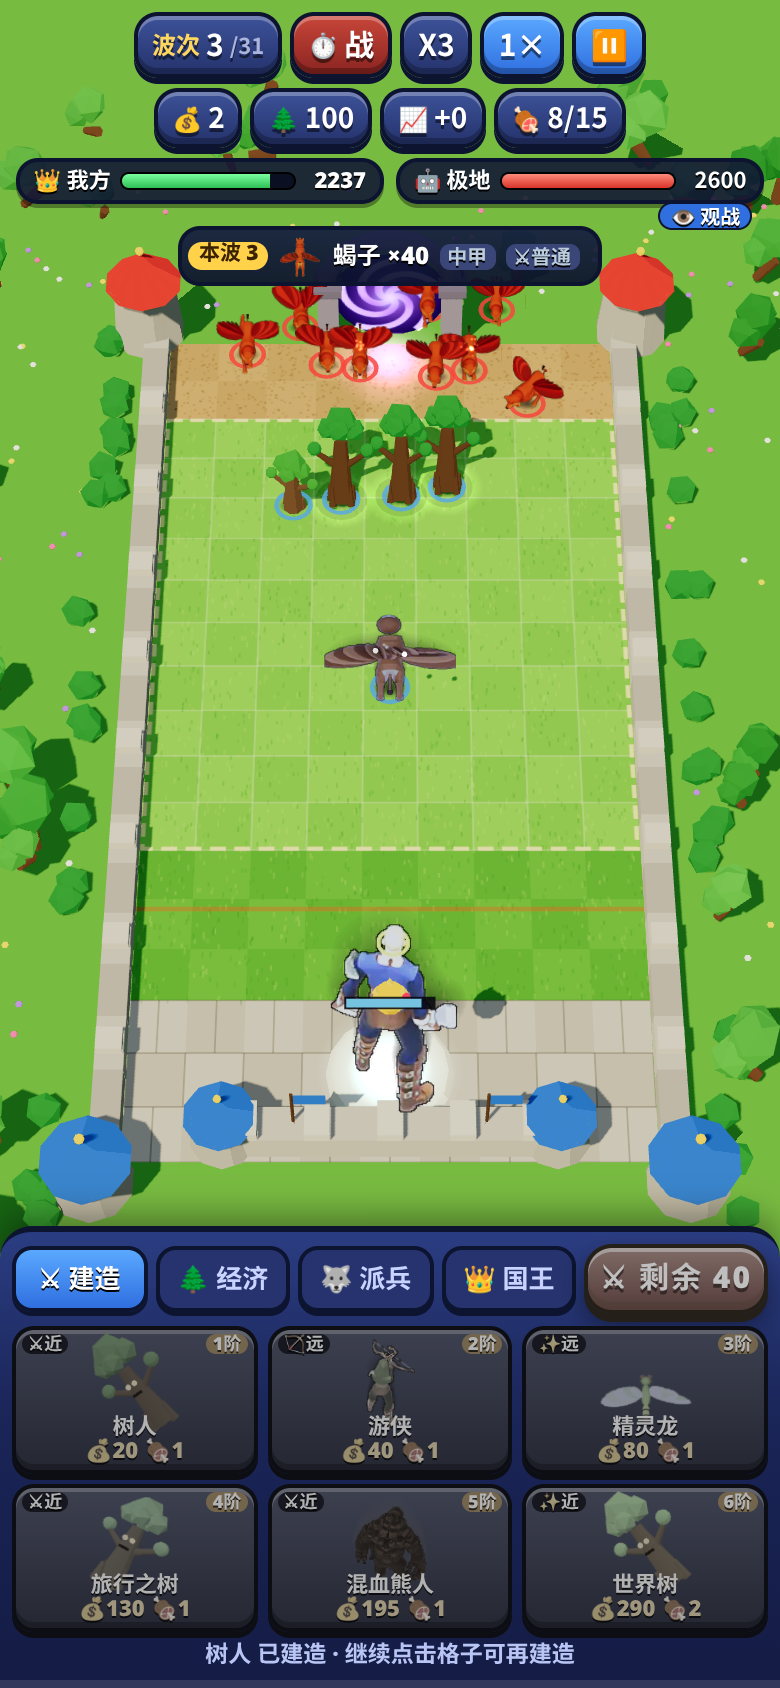
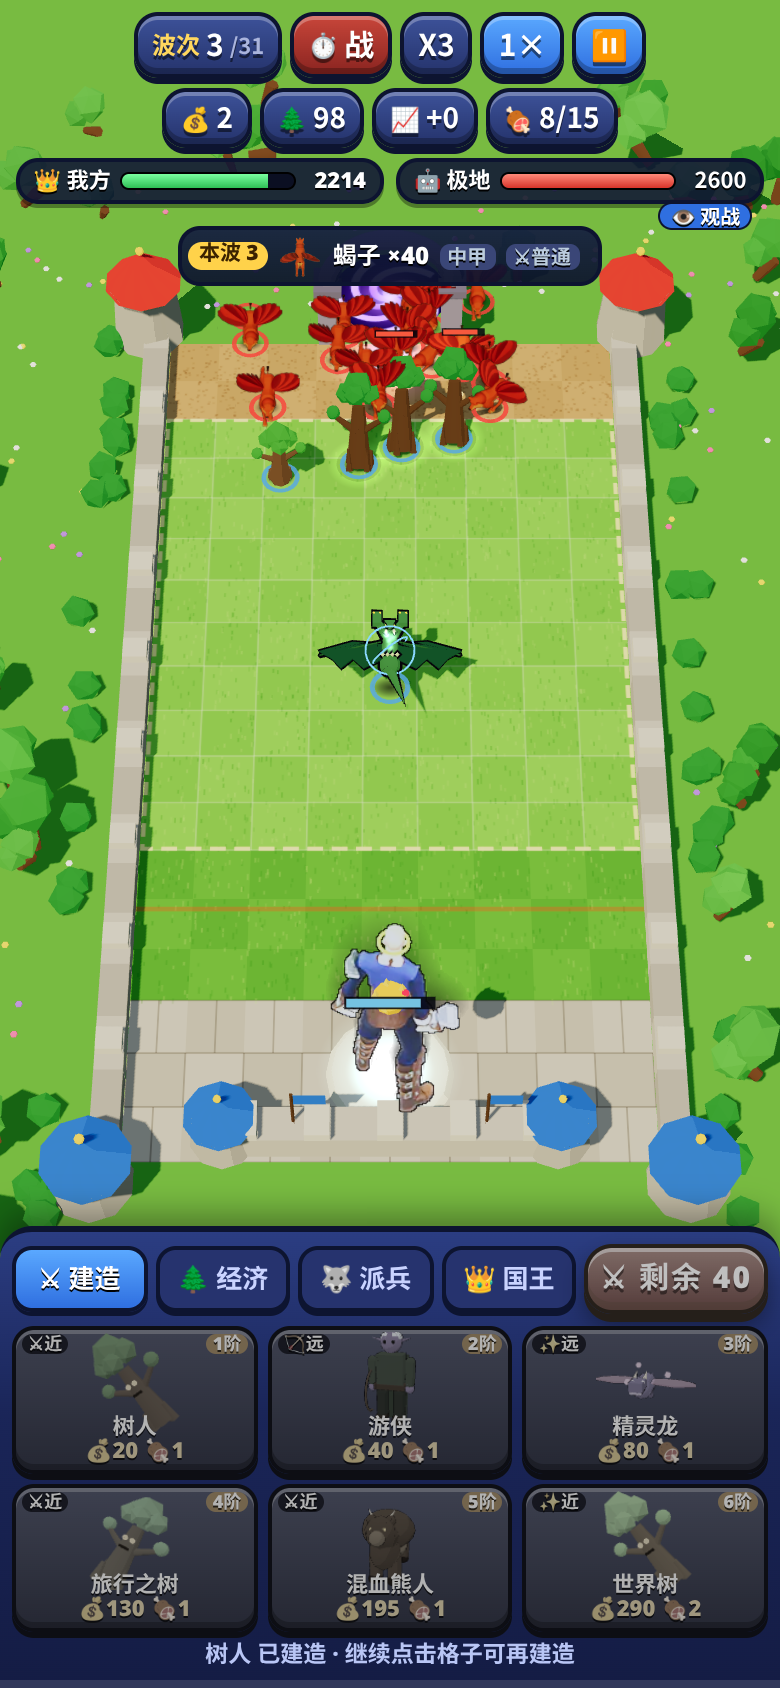
WIP: Nature model remake recipes

diff --git a/toonrecipes.js b/toonrecipes.js
@@ -137,3 +137,10 @@ R('h018',{k:1.1,plan:'quad',skin:0x7a5030,skin2:0xa07848,headType:'bear',eye:0x2
 R('h019',{k:1.25,plan:'quad',skin:0x8a8a90,skin2:0xb8b8c0,headType:'bear',eye:0xffe04a,pawC:0x3a3a3a,legLen:0.32,bodyLen:0.76,bodyH:0.36,bw:1.3,tailLen:0.08,claws:true,hump:true,mane:true,maneC:0xd8d8e0,saddle:0x6a4a8a,spikes:true,spikeC:0xd8c87a,atk:'claw',extras:['aura:0xffe06a']});
 R('h01A',{k:1.15,h:1.1,bw:1.2,torso:'default',head:'beast',headC:0x3a7ab8,helm:'horns',hornC:0xe8dcc0,skin:0x3a7ab8,torsoC:0x2a5a98,legC:0x2a5a98,bootC:0x1a3a6a,metal:0xd8b860,legs:'digit',eye:0xffe04a,weapon:'spear',wMetal:0xffd04a,pads:true,padC:0xd8b860,atk:'thrust',extras:['bwings:0x2a4a8a','tail:0x3a7ab8','belly:0xd8c890']});
 R('h01B',{k:1.12,plan:'flyer',skin:0xc8302a,skin2:0xf0c070,wingC:0x8a1a1a,eye:0xffe04a,crest:0xffa02a,crestM:'e',neckLen:0.8,tailLen:0.55,wingSpan:1.15,alt:0.38,atk:'bite',extras:['spikes:0xffd04a','rings:0xff8a2a'],trail:0xff8a2a});
+// ===================== 自然 Nature：暗夜弓手、树精、精灵龙、奇美拉、熊德、山岭巨人（各类古树/树人保留相符的程序化树模型） =====================
+R('h01E',{k:0.98,h:1.02,torso:'default',head:'default',skin:0x9a7ad8,hair:0xd8e8f8,torsoC:0x3a5a3a,legC:0x2a3a2a,bootC:0x3a2a1a,beltC:0x5a3a20,weapon:'bow',wood:0x6a4a2a,glow:0x9aff9a,atk:'shoot',extras:['ears:0x9a7ad8','quiver','cape:0x2a4a2a']});
+R('h01F',{k:1.05,h:1.05,torso:'default',head:'default',skin:0x8ac88a,hair:0x3a8a3a,torsoC:0x4a8a3a,legC:0xb08a5a,legs:'hoof',weapon:'spear',wood:0x8a6a3a,wMetal:0xe8f8d8,glow:0x9aff9a,atk:'thrust',extras:['ears:0x8ac88a','tail:0xb08a5a','horns','aura:0x8aff6a']});
+R('h01H',{k:0.8,plan:'flyer',skin:0x8a7ad8,skin2:0xd8c8ff,wing:'bird',wingC:0xffa8f0,wingM:'w',eye:0xffffff,neckLen:0.5,headS:1.2,tailLen:0.4,wingSpan:0.95,alt:0.55,atk:'cast',extras:['orbit:0xffc8ff'],trail:0xffb8ff});
+R('h01G',{k:1.15,plan:'flyer',skin:0x4a8a4a,skin2:0xc8d890,wingC:0x2a5a3a,eye:0xffe04a,neckLen:0.5,tailLen:0.55,wingSpan:1.15,alt:0.4,atk:'bite',extras:['head2','rings:0x8ad8ff','spikes:0xd8e8a0'],trail:0x8ad8ff});
+R('h01K',{k:1.2,plan:'quad',skin:0x6a4a2a,skin2:0x9a7a4a,headType:'bear',eye:0xffe04a,pawC:0x2a1a10,legLen:0.32,bodyLen:0.74,bodyH:0.36,bw:1.3,tailLen:0.08,claws:true,hump:true,horns:true,hornC:0xd8c8a0,saddle:0x3a6a3a,spikes:true,spikeC:0xd8c8a0,atk:'claw',extras:['aura:0x8aff6a']});
+R('h01L',{k:1.3,h:1.2,bw:1.55,torso:'rock',head:'default',headS:0.9,skin:0x9a8a6a,torsoC:0x8a7a60,legC:0x6a5a40,armC:0x8a7a60,arms:'rock',bootC:0x5a4a30,glow:0x8aff6a,weapon:'hammer',wood:0x6a4a2a,wMetal:0x6a4a2a,atk:'slam',extras:['spikes:0x4a8a3a','beard:0x4a8a3a']});

diff --git a/toonkit.js b/toonkit.js
@@ -216,6 +216,7 @@ const EXTRA={
   ears:(B,o,h,d)=>{const hs=h*(o.headS||1);for(const s of [-1,1])B.add('head','cone',[0.025*hs,0.16*hs,4],[s*0.12*hs,0.12*hs,-0.01*hs],d.col??o.headC??o.skin??0xe8b88a,{r:[0.3,0,-s*1.25]});},
   blindfold:(B,o,h,d)=>{const hs=h*(o.headS||1);B.add('head','cyl',[0.108*hs,0.108*hs,0.035*hs,10],[0,0.12*hs,0],d.col??0x2a8a3a);},
   tentacles:(B,o,h,d)=>{const hs=h*(o.headS||1);for(let i=0;i<5;i++){const x=(i-2)*0.035*hs;B.add('head','cone',[0.022*hs,0.16*hs,4],[x,0.0,0.11*hs],d.col??o.headC??0x5a3a6a,{r:[Math.PI-0.25+Math.abs(i-2)*0.05,0,(i-2)*0.15]});}},
+  head2:(B,o,h,d)=>{const hs=h*(o.headS||1),c=d.col??o.headC??o.skin??0x6a8a4a;for(const s of[-1,1]){B.add('neck','cap',[0.05*h,0.14*h],[s*0.09*h,0.1*h,0.1*h],c,{r:[0.8,0,-s*0.5]}).add('neck','box',[0.11*hs,0.08*hs,0.17*hs],[s*0.16*h,0.2*h,0.2*h],c).add('neck','sph',[0.018*hs],[s*0.16*h+0.04*hs,0.23*h,0.27*h],o.eye??0xffd02a,{m:'e'}).add('neck','sph',[0.018*hs],[s*0.16*h-0.04*hs,0.23*h,0.27*h],o.eye??0xffd02a,{m:'e'});}},
   bones:(B,o,h,d)=>{for(let i=0;i<3;i++)B.add('torso','box',[d.tW*0.9,0.025*h,0.03*h],[0,d.tH*(0.35+i*0.18),d.tD*0.5],0xe8e0c8);},
 };
 function wings(B,o,h,d,kind){const c=d.col??o.wingC??(kind==='bat'?0x5a3a5a:kind==='energy'?0x9ad8ff:0xf0f0f0);const sp=o.wingSpan||1;
